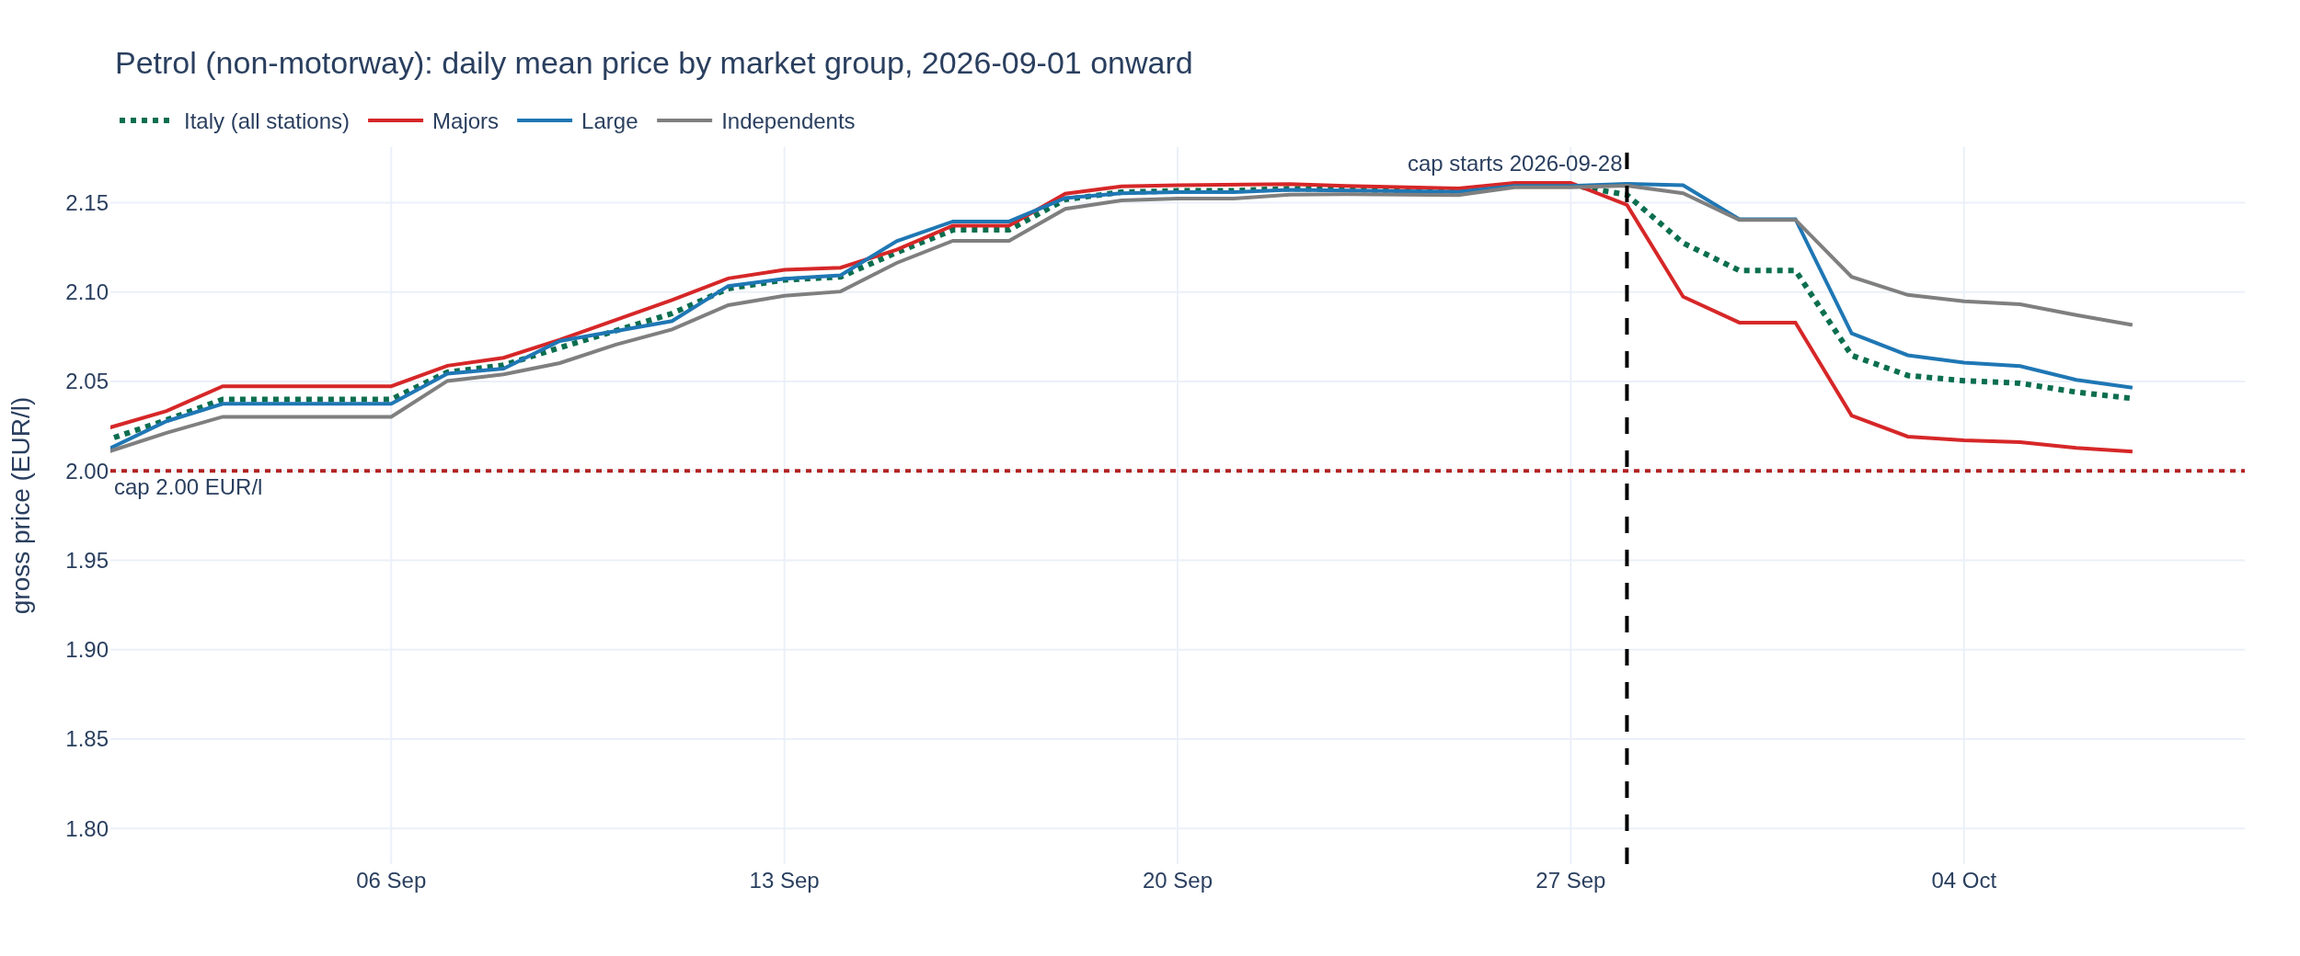
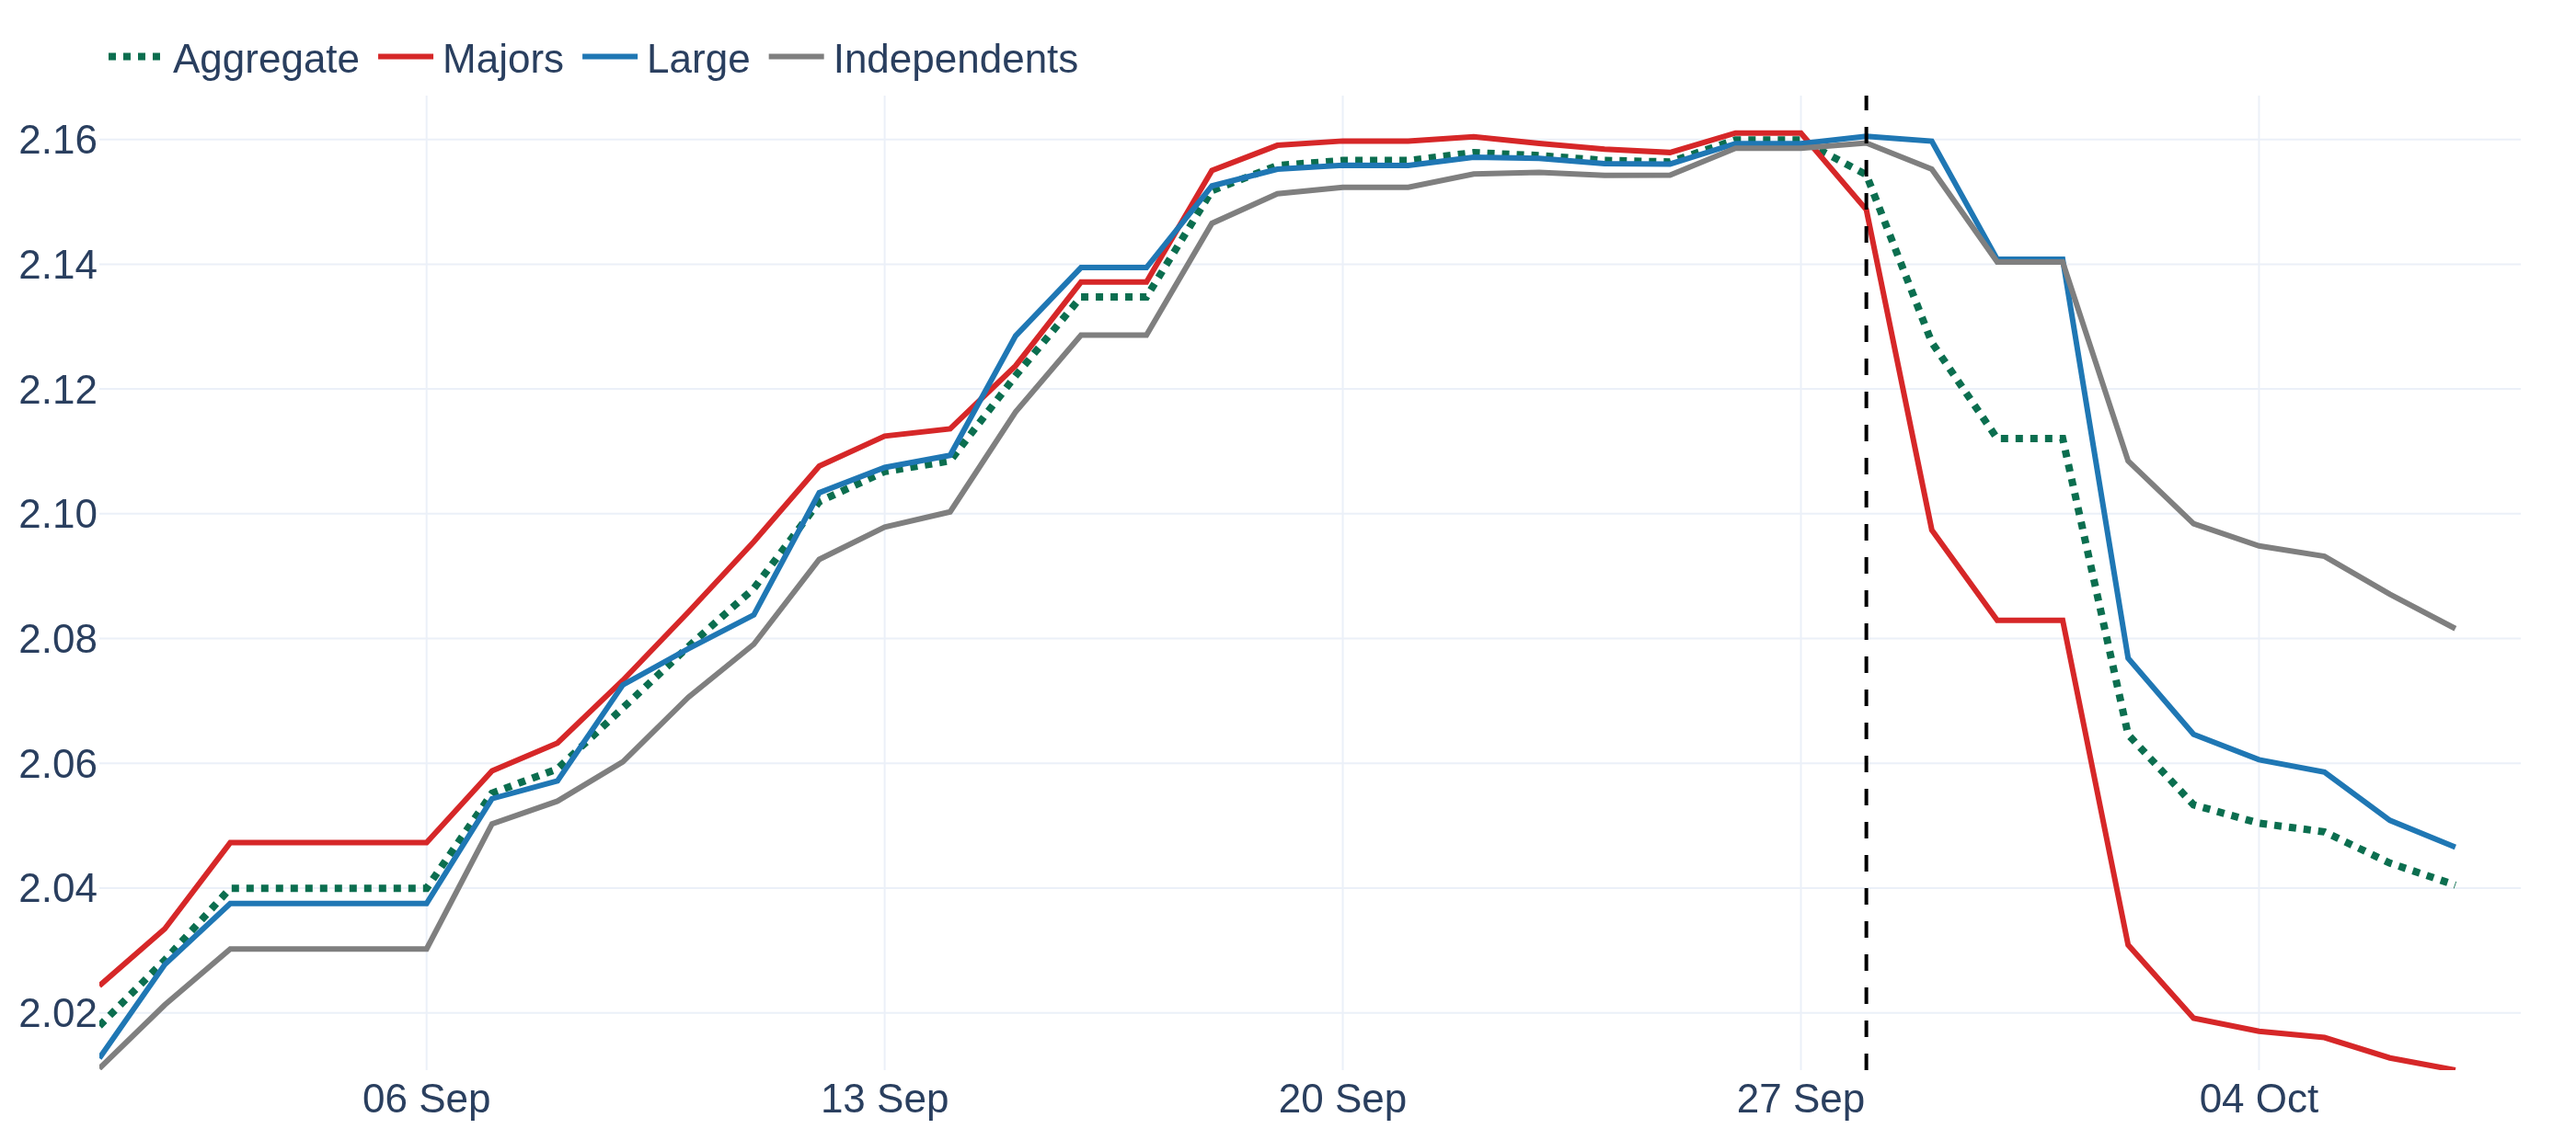
Report figures v2: larger fonts, no titles, tighter axes, fig3 pre-cap days
a) Fonts enlarged (base 22 for ticks/legend/annotations); headline
   titles removed from all generated figures.
b) Lines +50% thicker (3px base); y ranges padded 5% around data only;
   x ticks doubled (weekly for figs 1-2, 2-day for fig 3).
c) Figs 1-2: aggregate series label 'Aggregate'.
d) Fig 2: excise annotation text removed; hline labels now
   'cap 2.20 EUR/l from 28 Sep' and 'cap 2.261 EUR/l from 6 Oct';
   cap-start vline has no label.
e) Fig 3 rebuilt from the adoption panel (no longer a copy of the
   paper figure): window starts 26 Sep to show pre-cap compliance
   (~1%); dashed vline at 28 Sep; per-panel hline labels
   'cap 2.00 EUR/l' / 'cap 2.20 EUR/l'; excise vline labelled
   'cap 2.261 EUR/l'; subplot titles Petrol / Diesel only; 2-day
   x ticks.

diff --git a/adoption/make_report_figs.py b/adoption/make_report_figs.py
@@ -1,18 +1,22 @@
-"""Export-ready report figures (English labels, numbered prefixes).
+"""Export-ready report figures, v2 (larger fonts, no titles, tighter axes).
 
-Outputs to output/figures/ (main pipeline folder):
-  1_benzina_mean_price_brands.png   national benzina Stradale daily mean by
-                                    market group + Italy aggregate, no bands,
-                                    from 1 Sep, English labels
-  2_gasolio_mean_price_brands.png   same for gasolio, plus a dashed vline at
-                                    the 6 Oct excise step (label near y-axis)
-  3..7_*.png                        copies of the paper's figures 1, 3, 4, 9, 10
+Same outputs as v1 (1_..7_ prefixed PNGs in output/figures/), restyled:
+  a) legend/tick/annotation fonts enlarged; headline titles removed
+  b) lines +50% thicker; axis ranges trimmed to the data; x ticks doubled
+  c) figs 1-2: aggregate label "Aggregate"
+  d) fig 2: excise annotation dropped; hline labels "cap 2.20 EUR/l from
+     28 Sep" / "cap 2.261 EUR/l from 6 Oct"; cap-start vline label removed
+  e) fig 3: window starts 26 Sep (2 pre-cap days); dashed vline at 28 Sep;
+     per-panel hline labels "cap 2.00 EUR/l" / "cap 2.20 EUR/l"; the
+     excise vline label becomes "cap 2.261 EUR/l"; panel titles Petrol /
+     Diesel only.
+
+Figures 4-7 remain as-is copies of the paper's figures 3, 4, 9, 10.
 
 Run from the repo root:  uv run python adoption/make_report_figs.py
 """
 import os
 import shutil
-import subprocess
 import sys
 from pathlib import Path
 
@@ -29,38 +33,27 @@ import datetime as dt
 
 import plotly.graph_objects as go
 import polars as pl
+from plotly.subplots import make_subplots
 
 from fuel_price_cap import config
 
 FIG = config.FIGURES_DIR
 ADOPT_FIG = ROOT / "adoption" / "output" / "figures"
+ADOPT_TAB = ROOT / "adoption" / "output" / "tables"
 
 CUT = dt.date(2026, 9, 1)
 CAP_DATE = dt.date(2026, 9, 28)
 EXCISE_STEP = dt.date(2026, 10, 6)
+FIG3_CUT = dt.date(2026, 9, 26)  # two days before the cap
 
-# Italian -> English label map
-GROUP_EN = {
-    "Majors": "Majors",
-    "Large": "Large",
-    "Pompe Bianche": "Independents",
-}
-AGG_EN = "Italy (all stations)"
-FUEL_EN = {"Benzina": "Petrol", "Gasolio": "Diesel"}
-TIPO_EN = {"Stradale": "non-motorway", "Autostradale": "motorway"}
+FONT = 22   # base font: ticks, legend, annotations
+LINE_W = 3  # base 2 -> +50%
 
-GROUP_COLORS = {
-    "Majors": "#D62728",
-    "Large": "#1F77B4",
-    "Pompe Bianche": "#7F7F7F",
-}
+GROUP_EN = {"Majors": "Majors", "Large": "Large", "Pompe Bianche": "Independents"}
+AGG_EN = "Aggregate"
+
+GROUP_COLORS = {"Majors": "#D62728", "Large": "#1F77B4", "Pompe Bianche": "#7F7F7F"}
 AGG_COLOR = "#0B6E4F"
-
-
-def rgba(hex_color: str, alpha: float) -> str:
-    v = hex_color.lstrip("#")
-    r, g, b = (int(v[i : i + 2], 16) for i in (0, 2, 4))
-    return f"rgba({r},{g},{b},{alpha})"
 
 
 def group_price_chart_en(fuel: str, show_excise_line: bool, stem: str) -> Path:
@@ -69,9 +62,8 @@ def group_price_chart_en(fuel: str, show_excise_line: bool, stem: str) -> Path:
 
     def stats(dims: list[str]) -> pl.DataFrame:
         return (
-            prices.filter(
-                (pl.col("fuel") == fuel) & (pl.col("tipo_impianto") == tipo)
-            )
+            prices.filter((pl.col("fuel") == fuel) & (pl.col("tipo_impianto") == tipo))
+            .filter(pl.col("date") >= CUT)
             .group_by(["date", *dims])
             .agg(mean_prezzo=pl.col("prezzo").mean())
             .sort("date")
@@ -84,7 +76,7 @@ def group_price_chart_en(fuel: str, show_excise_line: bool, stem: str) -> Path:
     fig.add_trace(
         go.Scatter(
             x=overall["date"], y=overall["mean_prezzo"], mode="lines",
-            name=AGG_EN, line=dict(color=AGG_COLOR, width=3, dash="dot"),
+            name=AGG_EN, line=dict(color=AGG_COLOR, width=LINE_W + 1, dash="dot"),
         )
     )
     for group in config.GROUP_ORDER:
@@ -94,81 +86,118 @@ def group_price_chart_en(fuel: str, show_excise_line: bool, stem: str) -> Path:
                 go.Scatter(
                     x=s["date"], y=s["mean_prezzo"], mode="lines",
                     name=GROUP_EN[group],
-                    line=dict(color=GROUP_COLORS[group], width=2),
+                    line=dict(color=GROUP_COLORS[group], width=LINE_W),
                 )
             )
 
     threshold = config.THRESHOLDS[fuel]
     fig.add_hline(
         y=threshold, line_dash="dot", line_color="firebrick",
-        annotation_text=f"cap {threshold:.2f} EUR/l",
+        annotation_text=f"cap {threshold:.2f} EUR/l from 28 Sep",
         annotation_position="bottom left",
+        annotation_font=dict(size=FONT, color="firebrick"),
     )
     if fuel == "Gasolio" and overall["date"].max() >= EXCISE_STEP:
         fig.add_hline(
             y=config.GASOLIO_CAP_AFTER, line_dash="dot", line_color="firebrick",
             annotation_text=f"cap {config.GASOLIO_CAP_AFTER:.3f} EUR/l from 6 Oct",
             annotation_position="bottom left",
+            annotation_font=dict(size=FONT, color="firebrick"),
         )
-    fig.add_vline(
-        x=CAP_DATE.isoformat(), line_dash="dash", line_color="black",
-        annotation_text=f"cap starts {CAP_DATE.isoformat()}",
-        annotation_position="top left",
-    )
+    # vlines carry no text labels (d)
+    fig.add_vline(x=CAP_DATE.isoformat(), line_dash="dash", line_color="black")
     if show_excise_line:
-        fig.add_vline(x=EXCISE_STEP.isoformat(), line_dash="dash",
-                      line_color="black")
-        fig.add_annotation(
-            xref="paper", yref="paper", x=0.015, y=0.955, xanchor="left",
-            yanchor="top", showarrow=False,
-            text="excise change 6 Oct (cap 2.20 -> 2.261)",
-            font=dict(size=12, color="black"),
-        )
+        fig.add_vline(x=EXCISE_STEP.isoformat(), line_dash="dash", line_color="black")
 
+    y_lo = overall["mean_prezzo"].min()
+    y_hi = overall["mean_prezzo"].max()
+    pad = (y_hi - y_lo) * 0.05
     fig.update_layout(
-        title=(
-            f"{FUEL_EN[fuel]} ({tipo_en(tipo)}): daily mean price by market "
-            f"group, {CUT.isoformat()} onward"
-        ),
-        xaxis_title=None,
-        yaxis_title="gross price (EUR/l)",
+        font=dict(size=FONT),
+        margin=dict(l=10, r=30, t=15, b=10),
         template="plotly_white",
         hovermode="x unified",
-        width=1250,
-        height=520,
-        legend=dict(orientation="h", yanchor="bottom", y=1.0),
-        margin=dict(l=60, r=30, t=80, b=50),
+        width=1400,
+        height=620,
+        showlegend=True,
+        legend=dict(orientation="h", yanchor="bottom", y=1.0, xanchor="left", x=0),
     )
     fig.update_xaxes(
         tickformat="%d %b", tickangle=0,
-        range=[CUT, overall["date"].max() + dt.timedelta(days=2)],
+        dtick=7 * 86400000,  # weekly ticks (was ~biweekly -> doubled)
+        range=[CUT, overall["date"].max() + dt.timedelta(days=1)],
     )
-    fig.update_yaxes(tickformat=".2f")
+    fig.update_yaxes(tickformat=".2f", range=[y_lo - pad, y_hi + pad])
     out = FIG / f"{stem}.png"
     fig.write_image(out, scale=2)
     return out
 
 
-def tipo_en(t: str) -> str:
-    return TIPO_EN.get(t, t)
-
-
-def regen_fig1() -> Path:
-    """Re-run make_fig1_v2.py with English-only panel titles (no Italian),
-    writing directly to the numbered report name."""
-    out = FIG / "3_adoption_share_daily.png"
-    env = dict(os.environ, FIG1_OUT=str(out))
-    subprocess.run(
-        [sys.executable, str(ROOT / "adoption" / "make_fig1_v2.py")],
-        check=True, env=env, capture_output=True,
+def fig3_adoption_share() -> Path:
+    """Item (e): pre-cap days included, cap vline/hline labels, Petrol/Diesel."""
+    panel = pl.read_parquet(ADOPT_TAB / "adoption_panel.parquet")
+    d = (
+        panel.filter(pl.col("date") >= FIG3_CUT)
+        .group_by(["date", "fuel"])
+        .agg(pl.col("at_cap").mean().alias("share"))
+        .sort(["fuel", "date"])
     )
+
+    fig = make_subplots(
+        rows=2, cols=1, shared_xaxes=True, vertical_spacing=0.10,
+        subplot_titles=("Petrol", "Diesel"),
+    )
+    colors = {"Benzina": "#1f77b4", "Gasolio": "#d62728"}
+    for r, fuel in enumerate(["Benzina", "Gasolio"], start=1):
+        sub = d.filter(pl.col("fuel") == fuel)
+        thr = 2.00 if fuel == "Benzina" else 2.20
+        fig.add_trace(
+            go.Scatter(
+                x=sub["date"], y=sub["share"] * 100, mode="lines+markers",
+                line=dict(color=colors[fuel], width=LINE_W), marker=dict(size=9),
+                showlegend=False,
+            ),
+            row=r, col=1,
+        )
+        fig.add_hline(
+            y=thr, line_dash="dot", line_color="firebrick",
+            annotation_text=f"cap {thr:.2f} EUR/l",
+            annotation_position="right",
+            annotation_font=dict(size=FONT, color="firebrick"),
+            row=r, col=1,
+        )
+    fig.add_vline(
+        x=CAP_DATE.isoformat(), line_dash="dash", line_color="black",
+        annotation_text="28 Sep", annotation_position="top left",
+        annotation_font=dict(size=FONT),
+        row=1, col=1,
+    )
+    fig.add_vline(x=EXCISE_STEP.isoformat(), line_dash="dash", line_color="black",
+                  row=2, col=1)
+    fig.add_annotation(
+        xref="x domain", yref="y2 domain", x=0.925, y=0.06, xanchor="right",
+        yanchor="bottom", showarrow=False, text="cap 2.261 EUR/l",
+        font=dict(size=FONT, color="black"),
+    )
+    fig.update_xaxes(
+        tickformat="%d %b", tickangle=0, dtick=2 * 86400000,
+        tickfont=dict(size=FONT),
+        range=[FIG3_CUT, d["date"].max() + dt.timedelta(days=1)],
+    )
+    fig.update_yaxes(ticksuffix="%", tickfont=dict(size=FONT),
+                     range=[-2, 80])
+    fig.update_layout(
+        font=dict(size=FONT), margin=dict(l=10, r=170, t=30, b=10),
+        template="plotly_white", width=1500, height=900, showlegend=False,
+    )
+    out = FIG / "3_adoption_share_daily.png"
+    fig.write_image(out, scale=2)
     return out
 
 
 def copy_fig(src_name: str, stem: str) -> Path:
-    src = ADOPT_FIG / src_name
     out = FIG / f"{stem}.png"
-    shutil.copyfile(src, out)
+    shutil.copyfile(ADOPT_FIG / src_name, out)
     return out
 
 
@@ -178,7 +207,7 @@ def main() -> None:
                              stem="1_benzina_mean_price_brands"),
         group_price_chart_en("Gasolio", show_excise_line=True,
                              stem="2_gasolio_mean_price_brands"),
-        regen_fig1(),
+        fig3_adoption_share(),
         copy_fig("map_adoption_share.png", "4_map_adoption_share"),
         copy_fig("map_pb_adoption_share.png", "5_map_pb_adoption_share"),
         copy_fig("amap_price_post7_ben.png", "6_map_price_oct5_petrol"),
